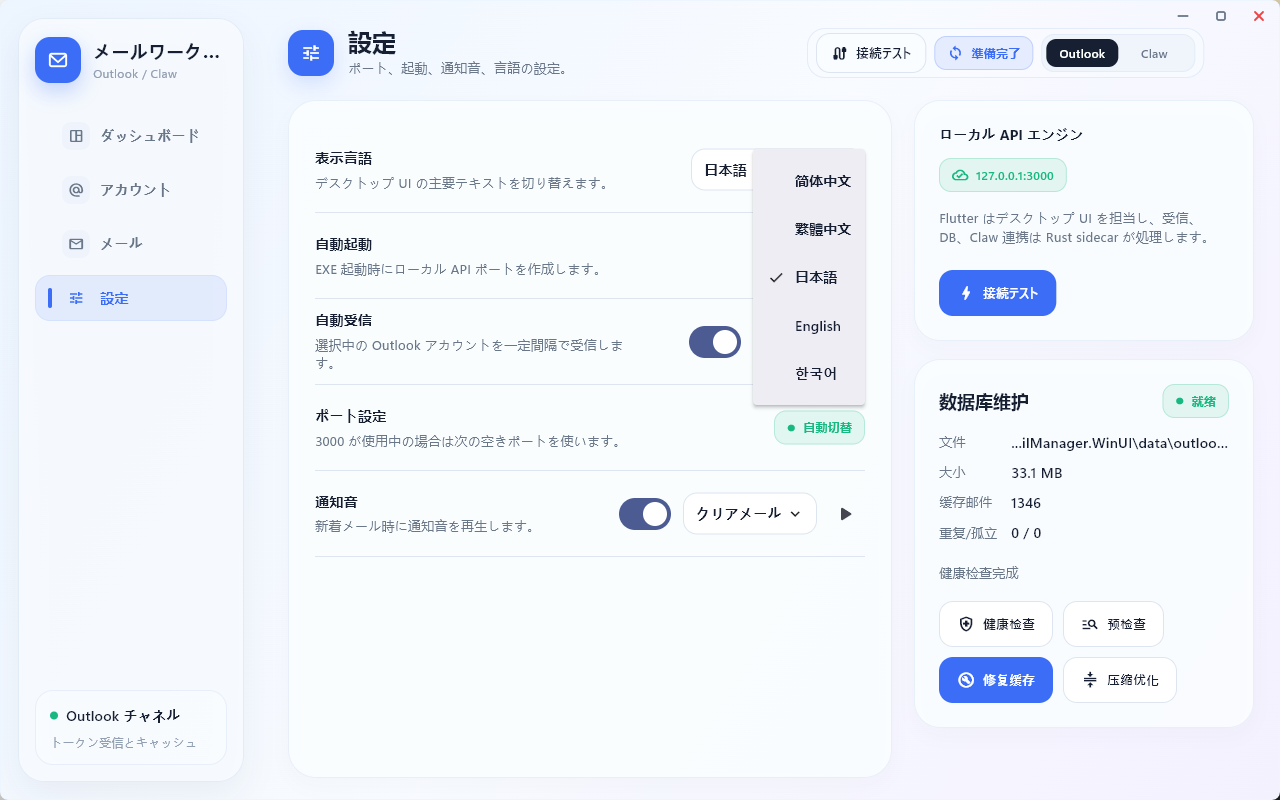
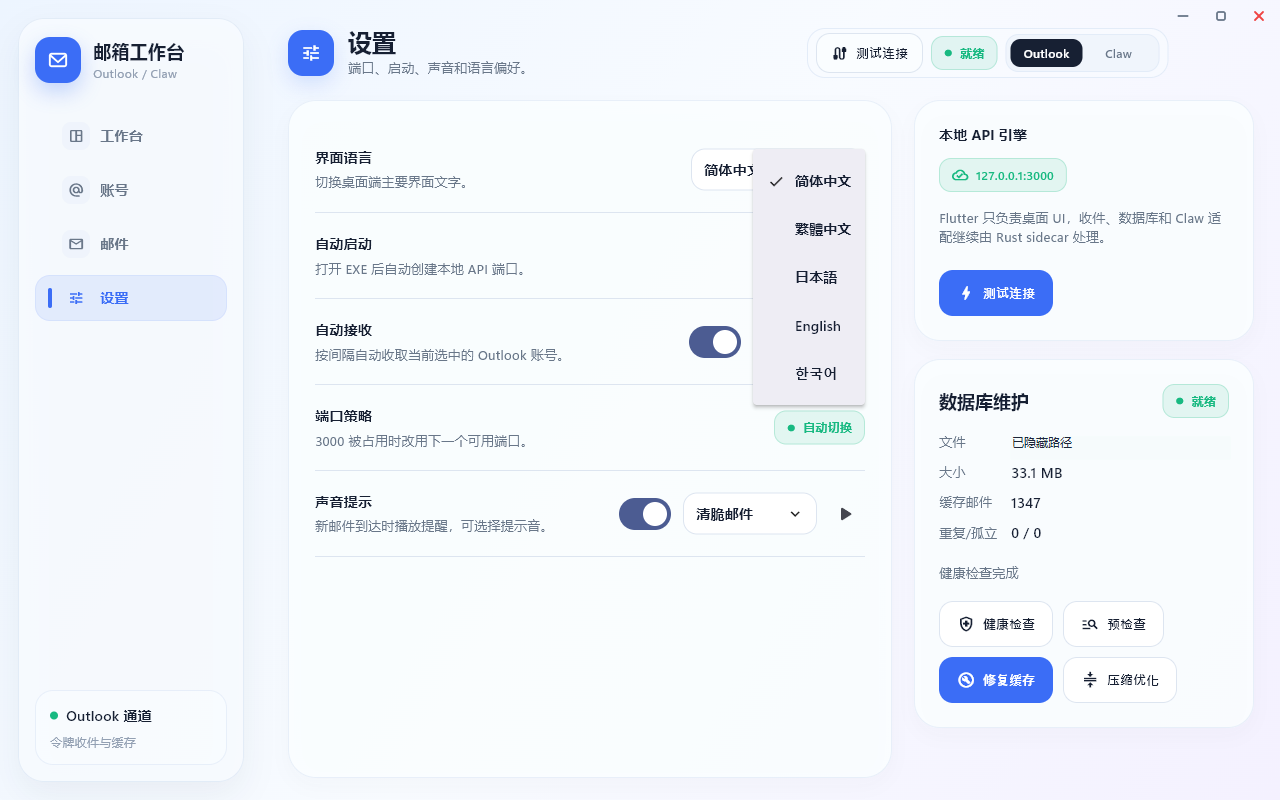
Replace README screenshots with redacted Chinese UI

diff --git a/README.md b/README.md
@@ -24,8 +24,6 @@ Mail Linear Flutter 是一个 Windows 桌面邮箱管理工具，使用 Flutter 
 
 ![Language Settings](docs/screenshots/settings-language-menu.png)
 
-![Japanese Dashboard](docs/screenshots/dashboard-ja.png)
-
 ## Repository Layout
 
 - `mail_linear_flutter/` - Flutter 桌面应用。